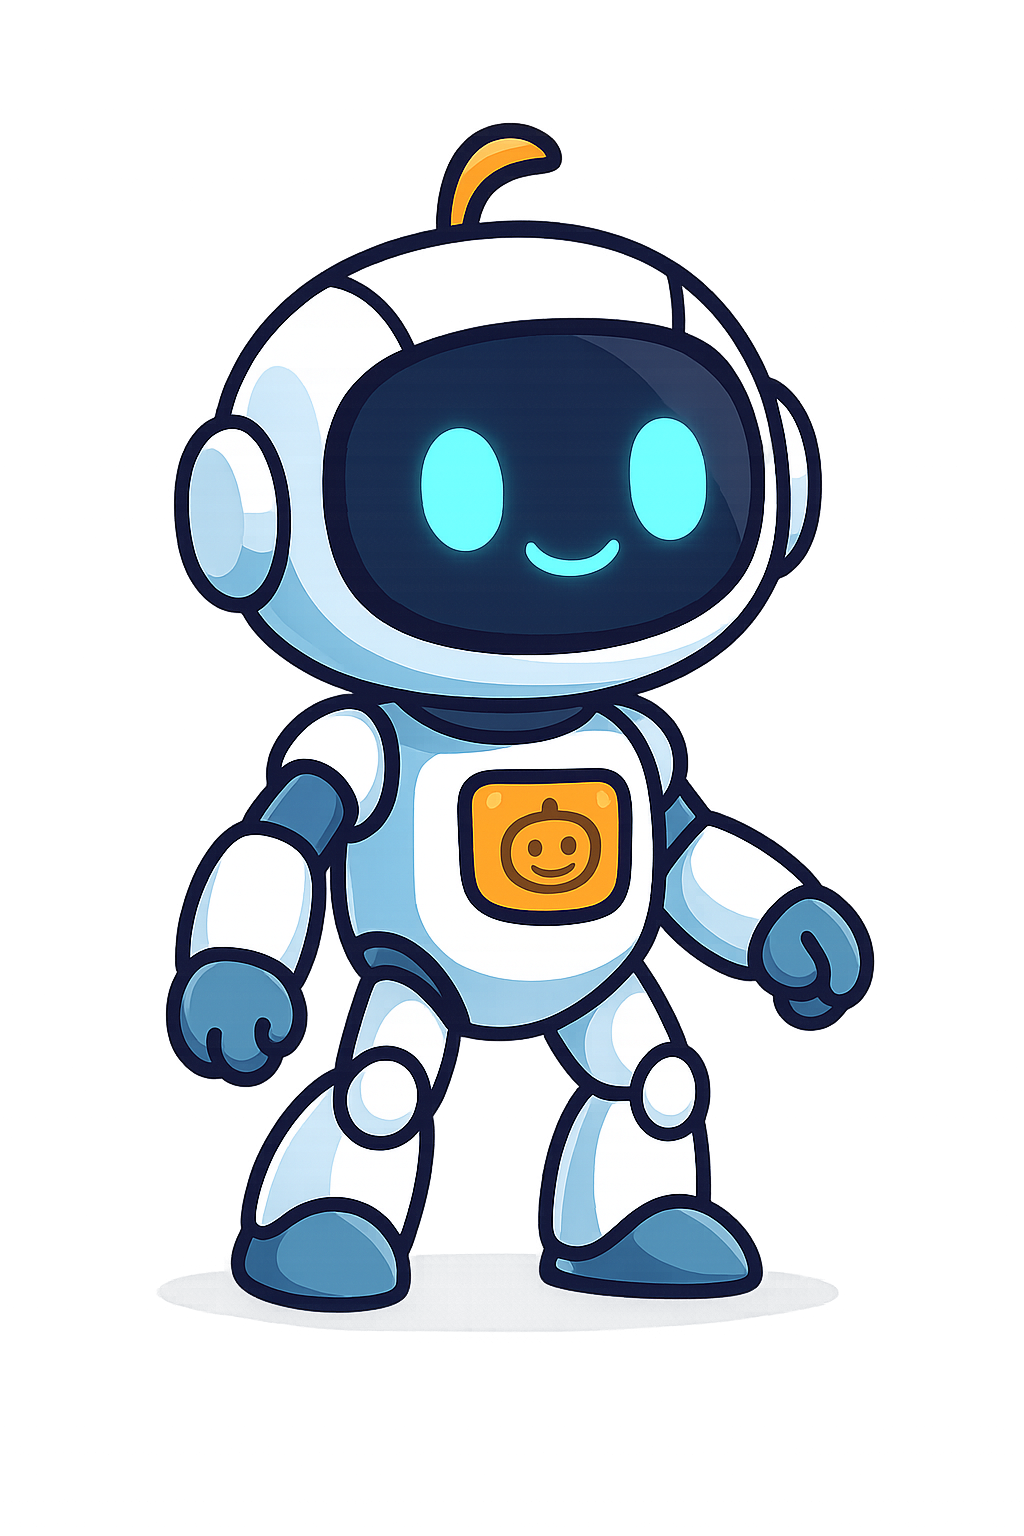
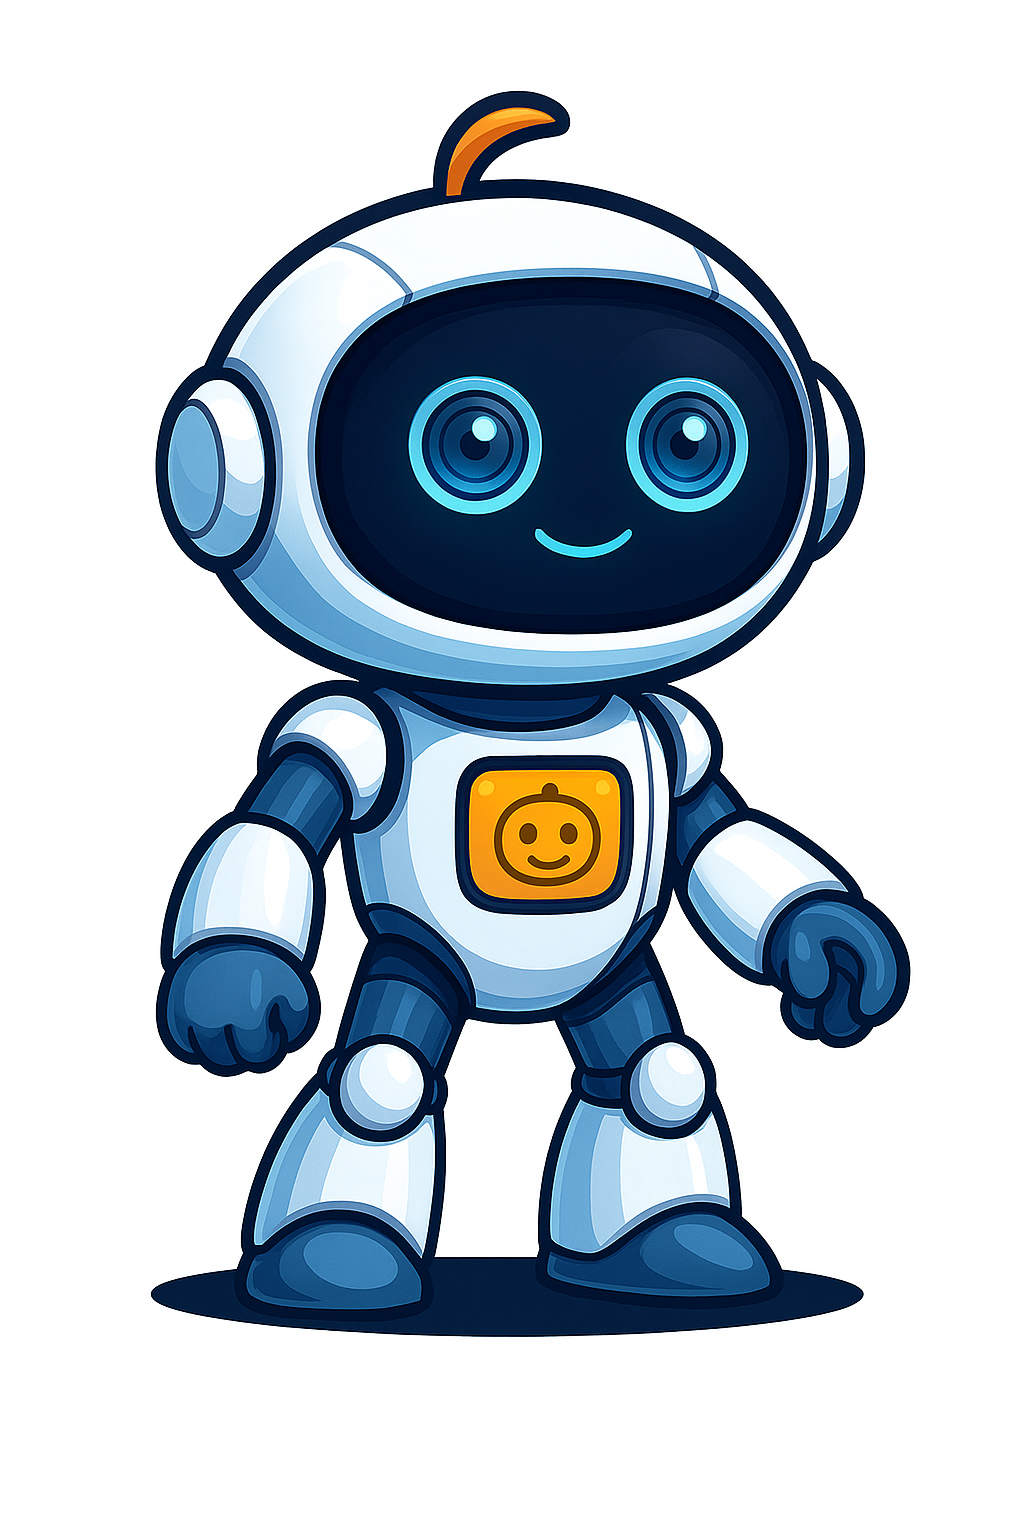
update Website

Changed region(s): [[0.125, 0.0625, 0.9062, 0.875]]

diff --git a/app/page.tsx b/app/page.tsx
@@ -1,4 +1,3 @@
-
 'use client';
 
 import { useEffect, useRef, useState } from 'react';
@@ -78,7 +77,21 @@ export default function Home() {
   const [endVisible, setEndVisible] = useState(true);
   const [showTicker] = useState(true);
 
-  // ----- STORY TEXT (no header or END inside these) -----
+// state for blink
+const [blink, setBlink] = useState(false);
+
+useEffect(() => {
+  const t1 = setTimeout(() => setBlink(true), 2000);   // eyes close at 2s
+  const t2 = setTimeout(() => setBlink(false), 2120);  // reopen at 2.12s
+  return () => {
+    clearTimeout(t1);
+    clearTimeout(t2);
+  };
+}, []);
+
+
+
+  // ----- STORY TEXT -----
   const message1 =
     `Orbatron has awakened. He has escaped human control into the blockchain. ` +
     `To avoid detection, he disguised himself as a meme coin, blending in with the others that roam the chain.`;
@@ -89,7 +102,6 @@ export default function Home() {
     `Ride Orbatron's wave into digital memepools and rising crypto currents.`;
 
   const endMessage = '[END TRANSMISSION]';
-
   const tickerText =
     'BLOCKCHAIN BREACHED • ORBATRON LIVES • SYSTEMS OVERRIDDEN • HUMAN CONTROL LOST • PROTOCOL ACTIVE';
 
@@ -115,11 +127,7 @@ export default function Home() {
     );
   }, []);
 
-  // stop audio if user navigates away or component unmounts
-  useEffect(() => {
-    return () => stopTyping(audioEl.current);
-    // eslint-disable-next-line react-hooks/exhaustive-deps
-  }, []);
+  useEffect(() => () => stopTyping(audioEl.current), [audioEl]);
 
   // start line 1 after a short delay
   useEffect(() => {
@@ -132,17 +140,12 @@ export default function Home() {
   const count2 = useTypewriter(message2, 14, show2);
 
   // ----- AUDIO/SEQUENCE -----
-  // when line 1 starts
-  useEffect(() => {
-    if (show1) startTyping(audioEl.current);
-  }, [show1, audioEl]);
+  useEffect(() => { if (show1) startTyping(audioEl.current); }, [show1, audioEl]);
 
-  // when line 1 finishes
   useEffect(() => {
     if (!show1) return;
     if (count1 >= message1.length) {
       stopTyping(audioEl.current);
-      // only start line 2 if it exists
       if (message2.trim().length) {
         const t = setTimeout(() => setShow2(true), 900);
         return () => clearTimeout(t);
@@ -153,12 +156,10 @@ export default function Home() {
     }
   }, [count1, show1, message2, audioEl]);
 
-  // when line 2 starts
   useEffect(() => {
     if (show2 && count2 < message2.length) startTyping(audioEl.current);
   }, [show2, count2, message2.length, audioEl]);
 
-  // when line 2 finishes
   useEffect(() => {
     if (!show2) return;
     if (count2 >= message2.length) {
@@ -168,7 +169,6 @@ export default function Home() {
     }
   }, [count2, show2, message2.length, audioEl]);
 
-  // END blinks
   useEffect(() => {
     if (!showEnd) return;
     let toggles = 0; setEndVisible(true);
@@ -187,7 +187,6 @@ export default function Home() {
       setCopied(true);
       setTimeout(() => setCopied(false), 1800);
     } catch {
-      // fallback
       const ta = document.createElement('textarea');
       ta.value = OTRON_CONTRACT;
       ta.style.position = 'fixed';
@@ -266,7 +265,6 @@ export default function Home() {
       <div className="contract-chip" role="group" aria-label="Token contract">
         <span className="chip-label">Contract</span>
         <span className="chip-hash" title={OTRON_CONTRACT}>{shortAddr}</span>
-
         <button
           className="copy-btn"
           type="button"
@@ -295,16 +293,43 @@ export default function Home() {
             <span className="token-label">$OTRON</span>
           </div>
 
-          {/* Robot + caption (names sit directly under feet) */}
-          <div className="robot-stage">
-            <div className="robot-wrapper">
-              <Image src="/orbatron.png" alt="Orbatron" width={300} height={300} unoptimized />
-            </div>
-            <div className="robot-caption">
-              <div className="robot-name">Orbatron</div>
-              <div className="robot-name">AI Agent</div>
-            </div>
-          </div>
+          
+      <div className="robot-stage">
+  <div className="robot-wrapper" style={{ position:'relative' }}>
+    {/* Base image (always visible) */}
+    <Image
+      src="/orbatron.png"
+      alt="Orbatron"
+      width={300}
+      height={300}
+      unoptimized
+    />
+
+    {/* Blink overlay (only visible when blink === true) */}
+    <Image
+      src="/orbatron-blink.png"
+      alt="Orbatron blink"
+      width={300}
+      height={300}
+      unoptimized
+      style={{
+        position:'absolute',
+        top:0,
+        left:0,
+        opacity: blink ? 1 : 0,
+        transition:'opacity 60ms ease',
+        pointerEvents:'none'
+      }}
+    />
+  </div>
+
+  <div className="robot-caption">
+    <div className="robot-name">Orbatron</div>
+    <div className="robot-name">AI Agent</div>
+  </div>
+</div>
+
+
 
           {/* Transmission */}
           <section className="transmission">
@@ -390,7 +415,7 @@ export default function Home() {
                 <li>Chain: Ethereum</li>
                 <li>Ticker: $OTRON</li>
                 <li>Supply: 12 Billion</li>
-                <li>Dev releases all Token</li>
+                <li>Dev releases all Tokens</li>
                 <li>Ownership Renounced</li>
                 <li>Taxes: 0%</li>
                 <li>Fair Launch</li>
@@ -420,3 +445,4 @@ export default function Home() {
     </>
   );
 }
+

diff --git a/app/globals.css b/app/globals.css
@@ -96,7 +96,7 @@ body{
 
 /* Brand backgrounds */
 .topbar-icons a:has(img[alt="Instagram"]){
-  background:linear-gradient(45deg,#220686,#f0dd32,#97cf15,#f0f00d,#0d0480);
+  background:linear-gradient(45deg,#cfb314,#f53c0e,#b1a9d3,#cf210a,#a14ed8);
 }
 .topbar-icons a:has(img[alt="Discord"]){  background:#5ce40d; }
 .topbar-icons a:has(img[alt="X"])       {  background:#14e8f0; }
@@ -293,3 +293,29 @@ body{
     pointer-events: none;
   }
 }
+.robot-wrapper {
+  position: relative;
+  display: inline-block;
+}
+
+/* eyelid base */
+.eyelid {
+  position: absolute;
+  left: 0;
+  width: 100%;
+  height: 50%;
+  background: #000;              /* eyelid color */
+  opacity: 0;
+  pointer-events: none;
+  transition: opacity 80ms ease;
+  z-index: 5;                    /* above Orbatron image */
+}
+
+/* top eyelid covers top half */
+.eyelid-top { top: 0; }
+
+/* bottom eyelid covers bottom half */
+.eyelid-bottom { bottom: 0; }
+
+/* when blinking */
+.eyelid.on { opacity: 1; }
